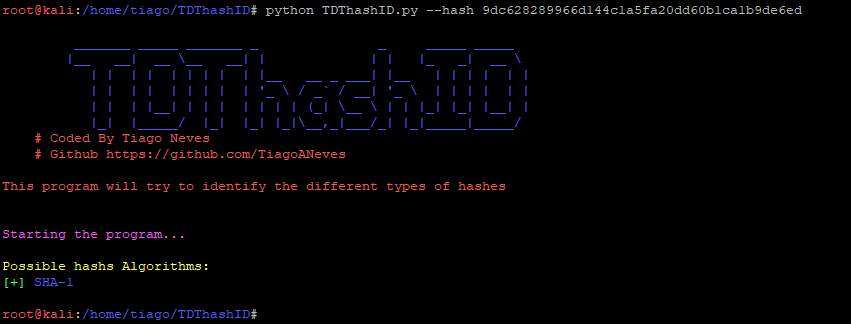
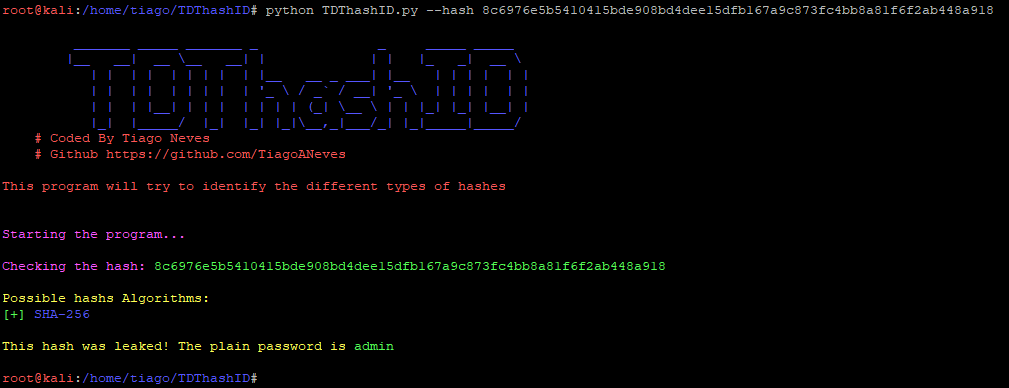
Script improvement

diff --git a/TDThashID.py b/TDThashID.py
@@ -8,6 +8,8 @@
 #Import necessary modules
 import os
 import re
+import json
+import requests
 import sys
 from argparse import ArgumentParser
 
@@ -77,15 +79,20 @@ if __name__ == "__main__":
         print bcolors.WARNING + "Use "+sys.argv[0]+" -h or --help to print the help option\n" + bcolors.ENDC
         sys.exit()
     else:
-        print bcolors.HEADER + "\nStarting the program...\n" + bcolors.ENDC
+        print bcolors.HEADER + "\nStarting the program..." + bcolors.ENDC
+        print bcolors.HEADER + "\nChecking the hash: %s%s%s\n" %(bcolors.OKGREEN,args.hash,bcolors.ENDC)
 	try:
             results = hash_id(args.hash)
             results_len = len(results)
-            #print results_len
             if results_len >= 0:
                 print bcolors.WARNING + "Possible hashs Algorithms:" + bcolors.ENDC
                 for result in results:
                     print "%s[+] %s%s%s\n" %(bcolors.OKGREEN,bcolors.OKBLUE,result,bcolors.ENDC)
+
+                decrypt = requests.get('https://lea.kz/api/hash/'+args.hash)
+                if decrypt.status_code == 200:
+                    decryptcontent = json.loads(decrypt.content)
+                    print "%sThis hash was leaked! The plain password is %s%s%s \n" %(bcolors.WARNING,bcolors.OKGREEN,decryptcontent['password'],bcolors.ENDC)
             else:
 	        print bcolors.FAIL + "The hash could not be identified...\n" + bcolors.ENDC
         except:
